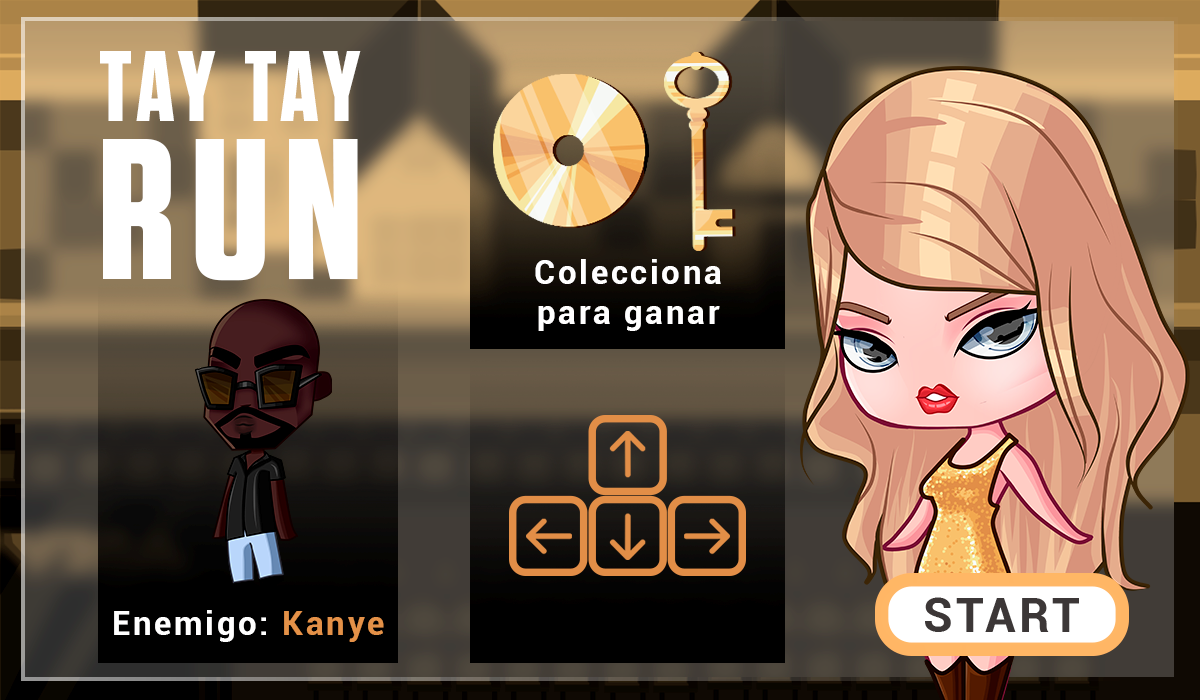
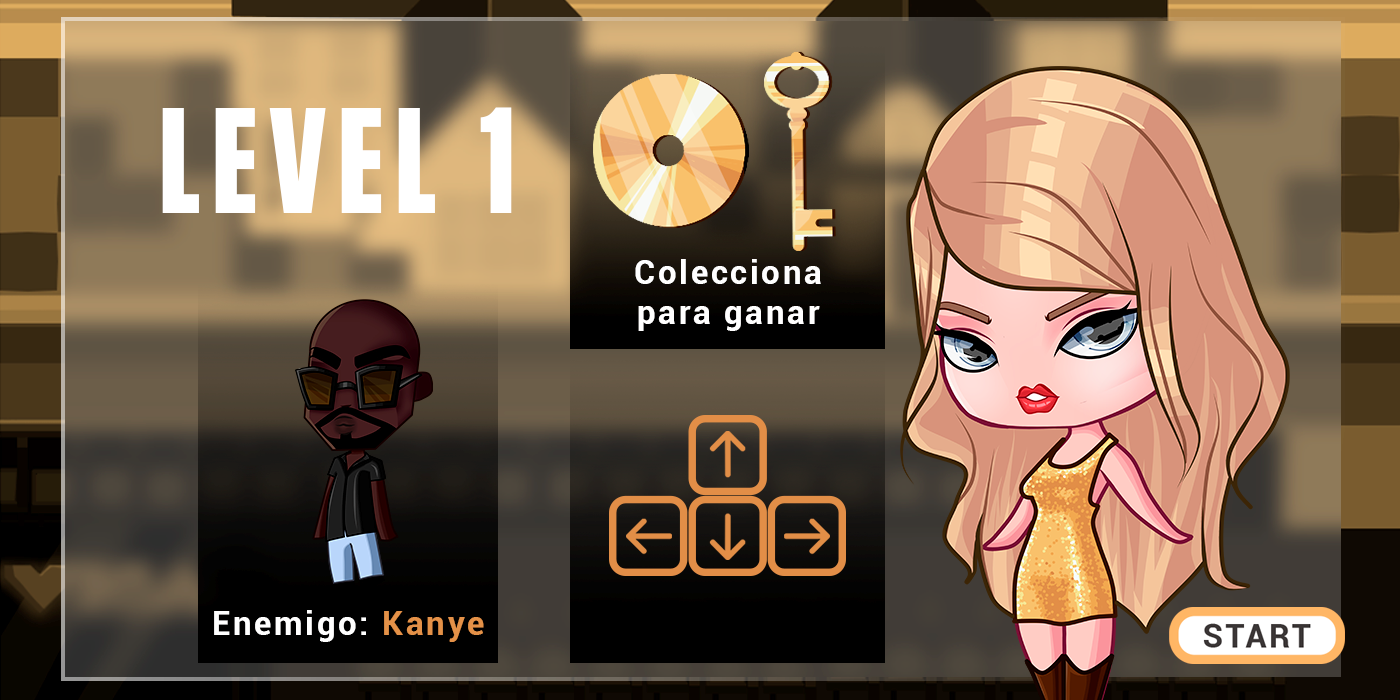
pj, items, enemy done

diff --git a/sketch.js b/sketch.js
@@ -23,12 +23,14 @@ function preload() {
 
 let levelA;
 let taylor;
+let enemyK;
 
 function setup() {
-  createCanvas(1200, 700);
+  createCanvas(1400, 700);
   pantalla = 0;
   levelA = new LevelA();
   taylor = new Tay(levelA.getMapReference());
+  enemyK = new Kanye(levelA.getMapReference());
 }
 
 function draw() {
@@ -46,22 +48,42 @@ function draw() {
       // nivel 1
       levelA.mostrar();
       taylor.mostrar();
-      //levelA.setObstaculos();
+      enemyK.mostrar();
+      enemyK.mover();
+      verifyEnemy();
     break;
   }
 }
+  function verifyEnemy() {
+    if (dist(taylor.getXPos(), taylor.getYPos(), enemyK.getKPosX(), enemyK.getKPosY()) < 100) {
+      taylor.llaveAtrapada = false;
+      taylor.llaveCol = 6;
+      taylor.llaveFil = 2;
+      taylor.llaveX = (taylor.llaveCol * 100) + 10;
+      taylor.llaveY = (taylor.llaveFil * 100) + 10;
+      taylor.cdAtrapado = false;
+      taylor.cdCol = 0;
+      taylor.cdFil = 6;
+      taylor.cdX = (taylor.cdCol * 100) + 10;
+      taylor.cdY = (taylor.cdFil * 100) + 10;
+      taylor.pjCol = 0;
+      taylor.pjFil = 0;
+      taylor.xPos = (taylor.pjCol * 100);
+      taylor.yPos = (taylor.pjFil * 100) + 100;
+    }
+  }
 
   function mousePressed() {
     //seguir a instrucciones
     switch (pantalla) {
       case 0:
-        if (dist(mouseX, mouseY, 1004, 614) < 100) {
+        if (dist(mouseX, mouseY, 1203, 610) < 100) {
           pantalla = 1;
         }
       break;
       // empezar nivel 1
       case 1:
-        if (dist(mouseX, mouseY, 1004, 614) < 100) {
+        if (dist(mouseX, mouseY, 1257, 635) < 50) {
           pantalla = 2;
         }
       break;
@@ -71,55 +93,15 @@ function draw() {
   function keyPressed() {
     
     switch (pantalla) {
-      /*case 0: // aquí hay una contradicción, cómo puede estar al tiempo en la pantalla 2 y 0
-        if (pantalla==2) { // estaba igualando en lugar de validar = vs ==
-          taylor.mover();
-        }
-      break;*/
       case 0:
         break;
+      //nivel 1
       case 2:
         taylor.mover();
         break;
 
   }
-  //console(taylor.mover());
 }
   
-  /*function keyIsPressed() {
-    switch (keyCode) {
-            case LEFT_ARROW: // izquierda
-            if (taylor.getPjCol() - 1 >= 0) {
-                if (this.mapReference[this.pjFil][this.pjCol - 1] === 0) {
-                this.pjCol -= 1;
-                }
-            }
-            break;
-            case RIGHT_ARROW: // derecha
-            if (this.pjCol + 1 < 12) {
-                if (this.mapReference[this.pjFil][this.pjCol + 1] === 0) {
-                this.pjCol += 1;
-                }
-            }
-            break;
-            case UP_ARROW: // arriba
-            if (this.pjFil - 1 >= 0) {
-                if (this.mapReference[this.pjFil - 1][this.pjCol] === 0) {
-                this.pjFil -= 1;
-                }
-            }
-            break;
-            case DOWN_ARROW: // abajo
-            if (this.pjFil + 1 < 7) {
-                if (this.mapReference[this.pjFil + 1][this.pjCol] === 0) {
-                this.pjFil += 1;
-                }
-            }
-            break;
-            }
-            this.xPos = (this.pjCol * 100) + 0;
-            this.yPos = (this.pjFil * 100) + 100;
-  }*/
-
 
 

diff --git a/Tay.js b/Tay.js
@@ -1,30 +1,59 @@
 class Tay{
-    constructor(mapReference,pjCol,pjFil,xPos,yPos){
+    constructor(mapReference,pjCol,pjFil,xPos,yPos,llaveX,llaveY,llaveCol,llaveFil,llaveAtrapada,cdX,cdY,cdCol,cdFil,cdAtrapado){
         this.pjCol = pjCol;
         this.pjFil = pjFil;
         this.xPos = xPos; 
         this.yPos = yPos;
         this.mapReference = mapReference;
         // posición inicial // remover despues para asignarla por nivel
-        this.pjCol = 0; // los valores se están quedando fijos, por eso no se mueve
-        this.pjFil = 0; // los valores se están quedando fijos, por eso no se mueve
-        this.xPos = (this.pjCol * 100) + 0; // los valores se están quedando fijos, por eso no se mueve
-        this.yPos = (this.pjFil * 100) + 100; // los valores se están quedando fijos, por eso no se mueve
+        this.pjCol = 0;
+        this.pjFil = 0; 
+        this.xPos = (this.pjCol * 100) + 0;
+        this.yPos = (this.pjFil * 100) + 100; 
+        //llave
+        this.llaveX = llaveX;
+        this.llaveY = llaveY;
+        this.llaveCol = llaveCol;
+        this.llaveFil = llaveFil;
+        this.llaveAtrapada = llaveAtrapada;
+        this.llaveCol = 6;
+        this.llaveFil = 2;
+        this.llaveX = (this.llaveCol * 100 + 10);
+        this.llaveY = (this.llaveFil * 100 + 10);
+        this.llaveAtrapada = false;
+        //cd
+        this.cdX = cdX;
+        this.cdY = cdY;
+        this.cdCol = cdCol;
+        this.cdFil = cdFil;
+        this.cdAtrapado = cdAtrapado;
+        this.cdCol = 0;
+        this.cdFil = 6;
+        this.cdX = (this.cdCol * 100 + 10);
+        this.cdY = (this.cdFil * 100 + 10);
+        this.cdAtrapado = false;
     }
 
     mostrar(){
-    //    this.pjCol = 0; // los valores se están quedando fijos, por eso no se mueve
-    //    this.pjFil = 0; // los valores se están quedando fijos, por eso no se mueve
-    //    this.xPos = (this.pjCol * 100) + 0; // los valores se están quedando fijos, por eso no se mueve
-    //    this.yPos = (this.pjFil * 100) + 100; // los valores se están quedando fijos, por eso no se mueve
         image(tay1, this.xPos, this.yPos);
-        image(llave,610,210,80,80);
-        image(cd,10,610,80,80);
-        
+        if (!this.llaveAtrapada) {
+            image(llave,this.llaveX,this.llaveY,80,80);
+        }
+        if (!this.cdAtrapado) {
+            image(cd,this.cdX,this.cdY,80,80);
+        }
     }
 
-    mover(){
-        //if(keyIsPressed){ // esto ya se está validando al llamar al método mover                
+    verifyItem(){
+        if(dist(this.xPos,this.yPos,this.llaveX,this.llaveY) < 50){
+            this.llaveAtrapada = true;
+        }
+        if(dist(this.xPos,this.yPos,this.cdX,this.cdY) < 50){
+            this.cdAtrapado = true;
+        }
+    }
+
+    mover(){              
         switch (keyCode) {            
             case LEFT_ARROW: // izquierda
             if (this.pjCol - 1 >= 0) {
@@ -56,8 +85,8 @@ class Tay{
             break;
             }
             this.xPos = (this.pjCol * 100) + 0;
-            this.yPos = (this.pjFil * 100) + 100;
-        //}
+            this.yPos = (this.pjFil * 100) + 0;
+            this.verifyItem();
     }
 
     getXPos(){

diff --git a/LevelA.js b/LevelA.js
@@ -66,57 +66,21 @@ class LevelA{
 
     mostrar(){
         image(fondo1, 0, 0);
-        
-        /*for(let fil = 0 ; fil < 7 ; fil++){
+        /*
+        for(let fil = 0 ; fil < 7 ; fil++){
             for(let col = 0 ; col < 12 ; col++){
                 //this.mapa[fil][col] = 0;
                 if(this.mapa[fil][col] === 0){
                     fill(255);
-                }else{
+                }else if (this.mapa[fil][col] === 1){
                     fill(0);
                 }
                 rect(col*100,fil*100,100,100);
             }
-        }*/
+        }
+        */
     }
 
-    /*mover(){
-        if(keyIsPressed){
-            switch (keyCode) {
-                case LEFT_ARROW: // izquierda
-                if (this.taylor.getPjCol - 1 >= 0) {
-                    if (this.mapa[this.taylor.getPjFil][this.taylor.getPjCol - 1] === 0) {
-                    this.taylor.getPjCol -= 1;
-                    }
-                }
-                break;
-                case RIGHT_ARROW: // derecha
-                if (this.taylor.getPjCol + 1 < 12) {
-                    if (this.mapa[this.taylor.getPjFil][this.taylor.getPjCol + 1] === 0) {
-                    this.taylor.getPjCol += 1;
-                    }
-                }console.log(RIGHT_ARROW);
-                break;
-                case UP_ARROW: // arriba
-                if (this.taylor.getPjFil - 1 >= 0) {
-                    if (this.mapa[this.taylor.getPjFil - 1][this.taylor.getPjCol] === 0) {
-                    this.taylor.getPjFil -= 1;
-                    }
-                }
-                break;
-                case DOWN_ARROW: // abajo
-                if (this.taylor.getPjFil + 1 < 12) {
-                    if (this.mapa[this.taylor.getPjFil + 1][this.taylor.getPjCol] === 0) {
-                    this.taylor.getPjFil += 1;
-                    }
-                }
-                break;
-                }
-                this.taylor.getXPos = (this.taylor.getPjCol * 100) + 0;
-                this.taylor.getYPos = (this.taylor.getPjFil * 100) + 100;
-            }
-    }
-    */
    getMapReference(){
        return this.mapa;
    }

diff --git a/Kanye.js b/Kanye.js
@@ -1,0 +1,84 @@
+class Kanye{
+    constructor(mapReference,kCol,kFil,kPosX,kPosY,kDir, moving){
+        this.kCol = kCol;
+        this.kFil = kFil;
+        this.kPosX = kPosX; 
+        this.kPosY = kPosY;
+        this.mapReference = mapReference;
+        this.kDir = kDir;
+        this.moving = moving;
+
+        this.kCol = 11;
+        this.kFil = 3;
+        this.kPosX = (this.kCol * 100); 
+        this.kPosY = (this.kFil * 100);
+        this.kDir = 0;
+        this.moving = false;
+    }
+
+    mostrar(){
+        image(kanye, this.kPosX, this.kPosY);
+    }
+    
+    mover() {
+        if (frameCount % 20 == 0) {
+            this.moveEnemy(this.mapReference);
+        }
+    }
+    
+
+    moveEnemy() {
+        switch (this.kDir) {
+            case 0: // izquierda
+                if (this.kCol - 1 >= 0) {
+                    if (this.mapReference[this.kFil][this.kCol - 1] === 0) {
+                        this.kCol -= 1;
+                        this.moving = true;
+                    }
+                }
+                break;
+            case 1: // derecha
+                if (this.kCol + 1 < 12) {
+                    if (this.mapReference[this.kFil][this.kCol + 1] === 0) {
+                        this.kCol += 1;
+                        this.moving = true;
+                    }
+                }
+                break;
+        }
+        //  this.kDir = int(random(0,2));
+        if(this.kPosX <= 0){
+            this.kDir = 1;
+        }else if(this.kPosX >= 1100){
+            this.kDir = 0;
+        }
+        this.kPosX = (this.kCol * 100); // pixeles
+        this.kPosY = (this.kFil * 100); // pixeles
+    }
+    getKPosX(){
+        return this.kPosX;
+    }
+    setXPos(kPosX){
+        this.kPosX = kPosX;
+    }
+    getKPosY(){
+        return this.kPosY;
+    }
+    setYPos(kPosY){
+        this.kPosY = kPosY;
+    }
+    getKCol(){
+        return this.kCol;
+    }
+    setKCol(pjCol){
+        this.kCol = this.kCol;
+    }
+    getKFil(){
+        return this.kFil;
+    }
+    setKFill(kFil){
+        this.kFil = kFil;
+    }
+
+    
+}

diff --git a/index.html b/index.html
@@ -13,6 +13,7 @@
   </head>
 
   <body>
+    <script src="Kanye.js"></script>
     <script src="Tay.js"></script>
     <script src="LevelA.js"></script>
     <script src="sketch.js"></script>
